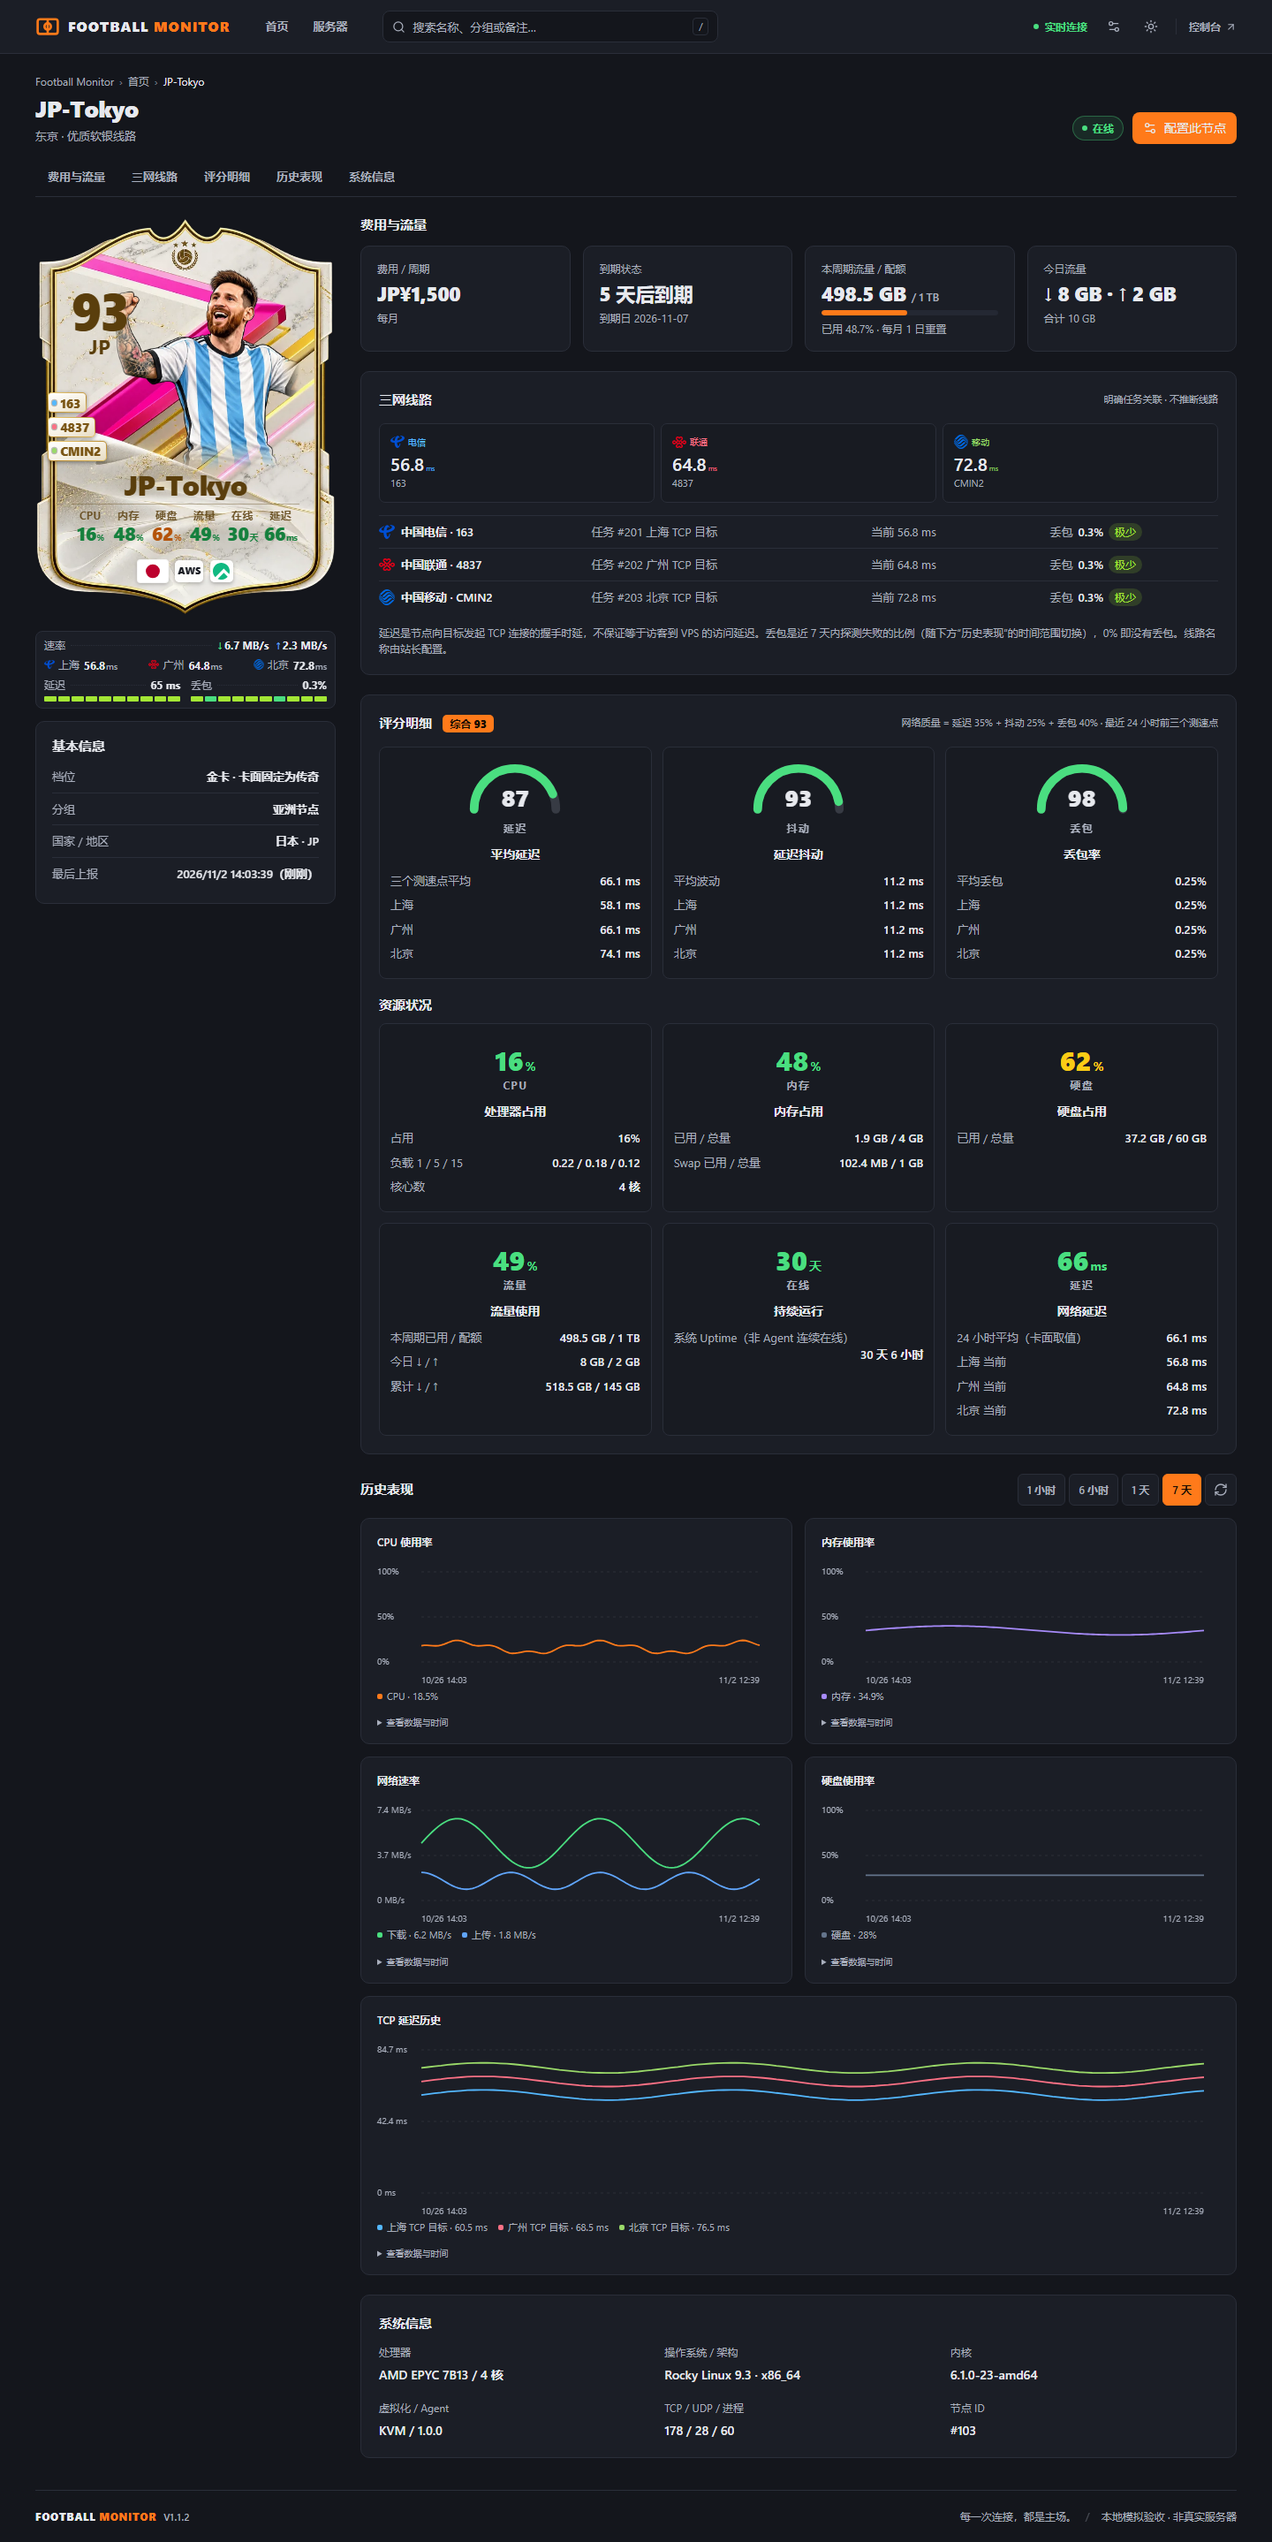
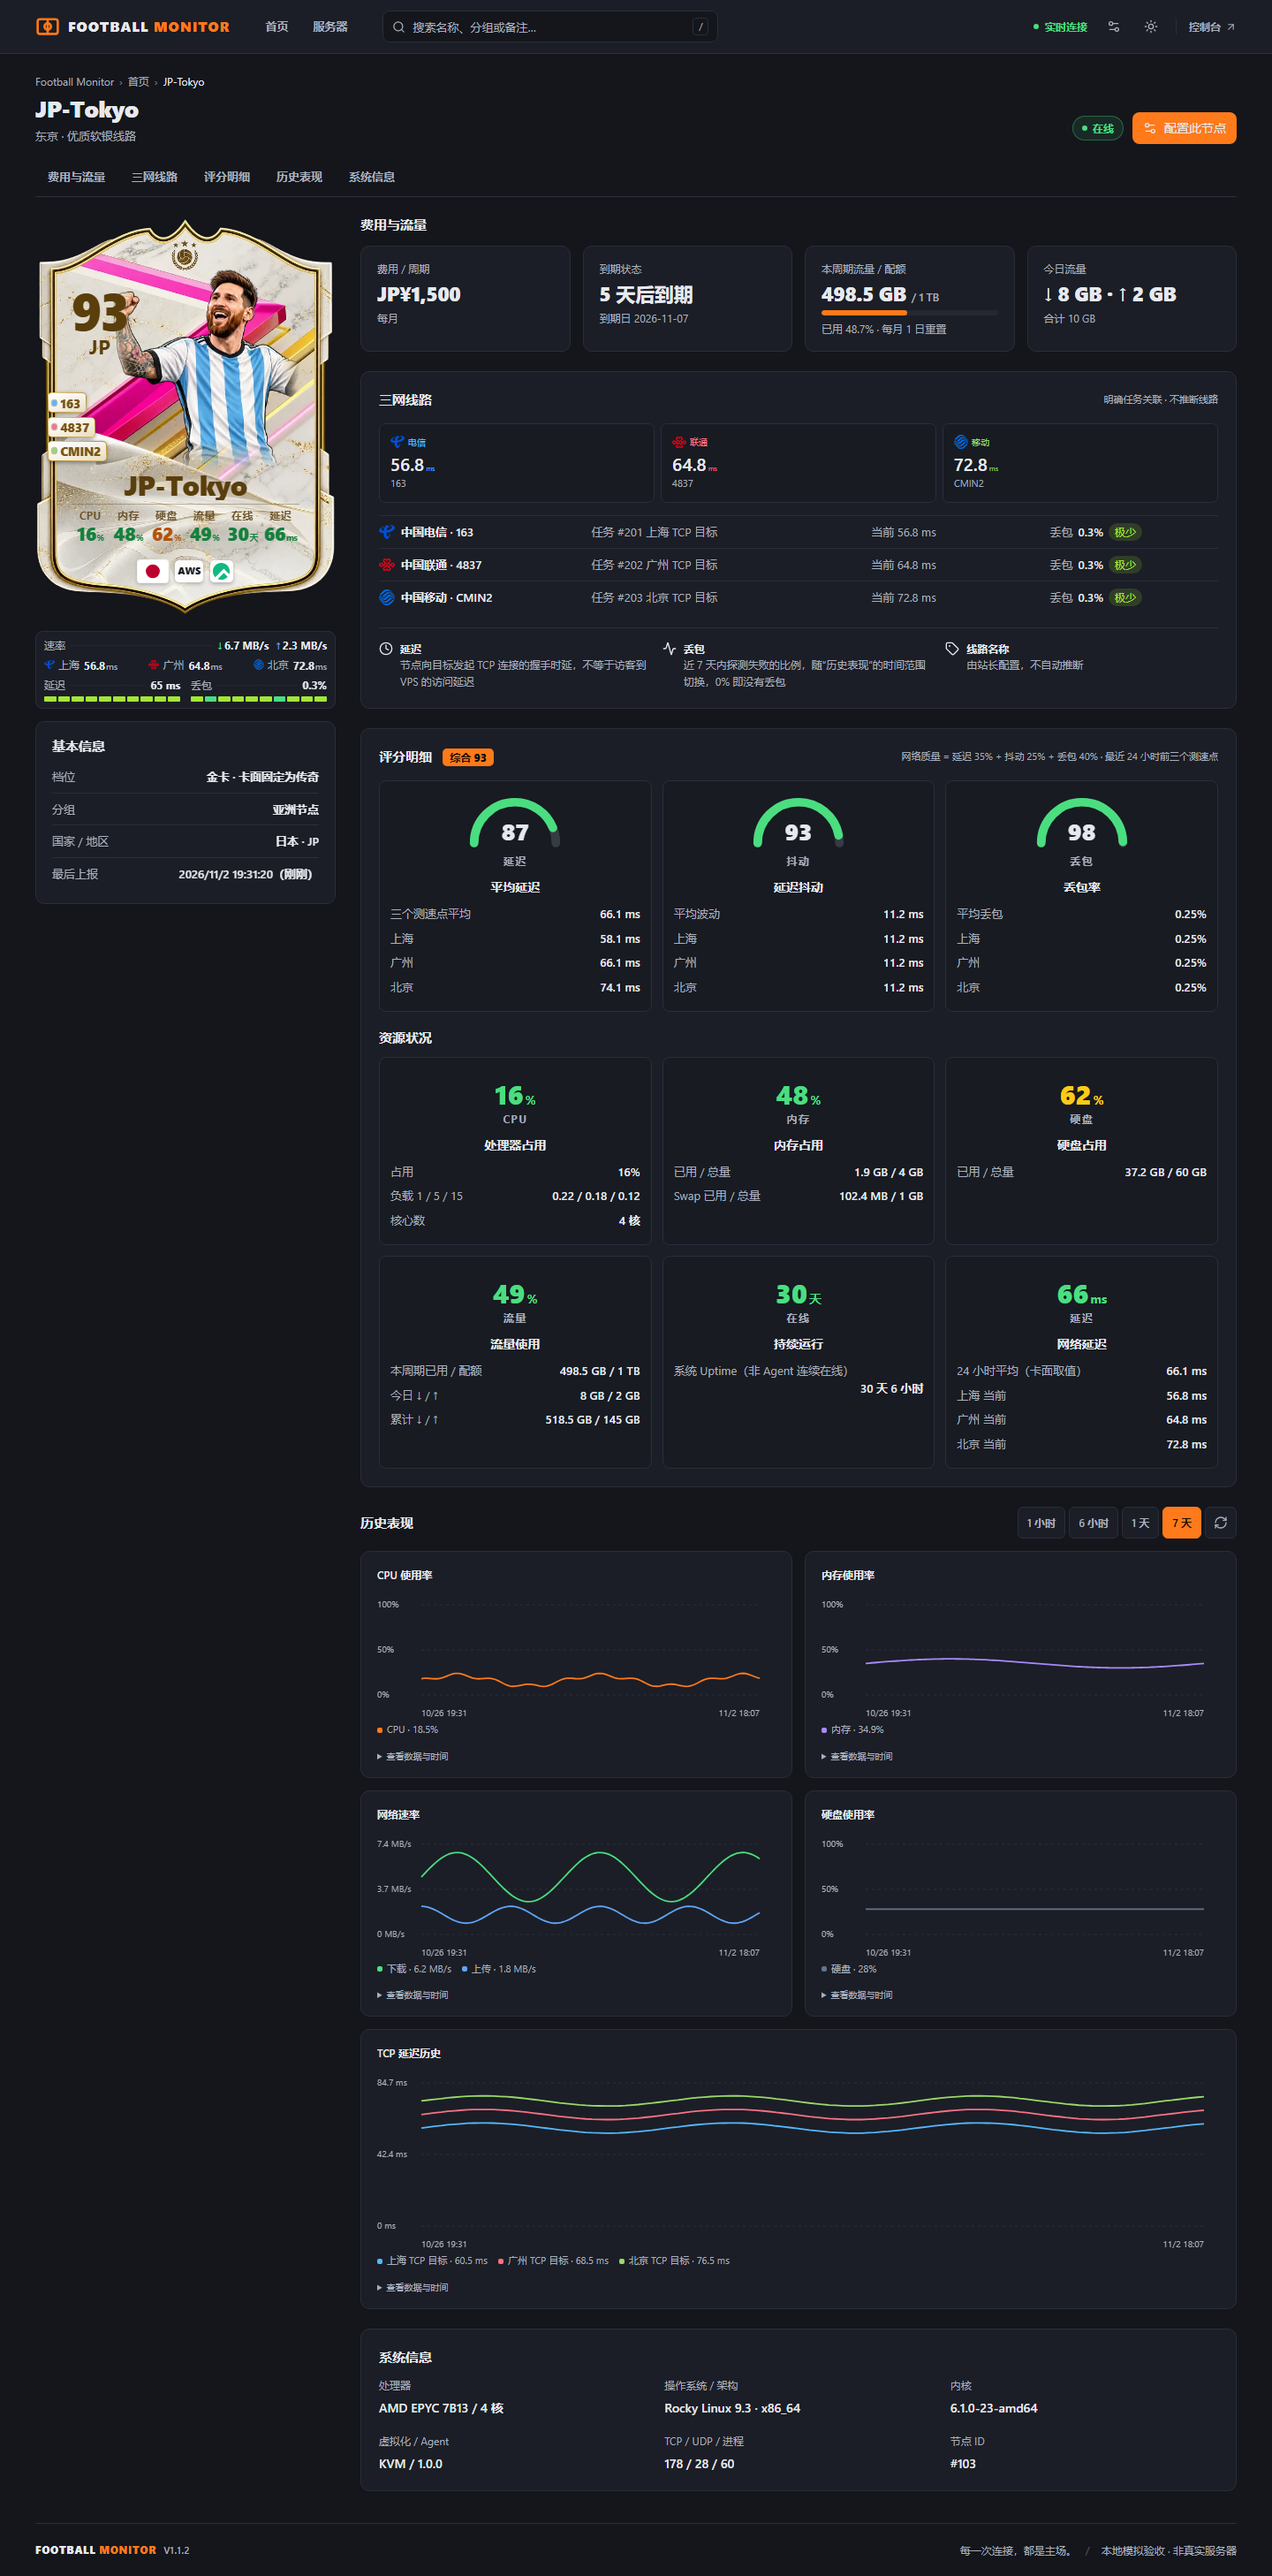
Tidy the carrier section's notes into chips and short notes
Probes outside the three carrier rows become graded chips, and the
explanation paragraph becomes three icon-led notes on latency, loss
and line names. Phones stack the notes.

diff --git a/src/views/NodeDetailView.vue b/src/views/NodeDetailView.vue
@@ -1,7 +1,7 @@
 <script setup lang="ts">
 import { computed, onBeforeUnmount, ref, watch } from 'vue'
 import { RouterLink, useRoute } from 'vue-router'
-import { RefreshCw, Settings2 } from '@lucide/vue'
+import { Activity, Clock, RefreshCw, Settings2, Tag } from '@lucide/vue'
 import { useMonitorStore } from '../stores/monitor'
 import {
   bytes,
@@ -326,16 +326,39 @@ const pct = (loss: number) => `${Number(loss.toFixed(1))}%`
               >
             </li>
           </ul>
-          <p>
-            延迟是节点向目标发起 TCP 连接的握手时延，不保证等于访客到 VPS 的访问延迟。丢包是近
-            {{ windowLabel(hours) }}内探测失败的比例（随下方“历史表现”的时间范围切换），0%
-            即没有丢包。线路名称由站长配置。
-          </p>
-          <p v-if="otherLoss.length">
-            其他探测任务：<span v-for="o in otherLoss" :key="o.id" class="carrier-other-loss"
-              >{{ o.name }} 丢包 {{ pct(o.loss) }}（{{ lossGrade(o.loss) }}）</span
-            >
-          </p>
+          <div v-if="otherLoss.length" class="carrier-others">
+            <h3>其他探测任务</h3>
+            <ul>
+              <li
+                v-for="o in otherLoss"
+                :key="o.id"
+                class="carrier-other-loss"
+                :style="{ '--loss': lossColor(o.loss) }"
+                :title="`近 ${windowLabel(hours)}内探测失败的比例`"
+              >
+                <span>{{ o.name }}</span> <b>{{ pct(o.loss) }}</b
+                ><em>{{ lossGrade(o.loss) }}</em>
+              </li>
+            </ul>
+          </div>
+          <ul class="carrier-notes">
+            <li>
+              <Clock :size="16" aria-hidden="true" /><span
+                ><strong>延迟</strong>节点向目标发起 TCP 连接的握手时延，不等于访客到 VPS 的访问延迟</span
+              >
+            </li>
+            <li>
+              <Activity :size="16" aria-hidden="true" /><span
+                ><strong>丢包</strong>近
+                {{ windowLabel(hours) }}内探测失败的比例，随“历史表现”的时间范围切换，0% 即没有丢包</span
+              >
+            </li>
+            <li>
+              <Tag :size="16" aria-hidden="true" /><span
+                ><strong>线路名称</strong>由站长配置，不自动推断</span
+              >
+            </li>
+          </ul>
         </section>
         <section v-if="score" id="score" class="detail-section detail-score panel" aria-label="评分明细">
           <ScoreBreakdown

diff --git a/src/style.css b/src/style.css
@@ -1511,11 +1511,6 @@ svg {
 .detail-carriers .carrier-state {
   font-size: 11px;
 }
-.detail-carriers p {
-  font-size: 12px;
-  color: var(--muted);
-  margin-top: 13px;
-}
 .carrier-tasks {
   list-style: none;
   margin: 14px 0 0;
@@ -1558,8 +1553,80 @@ svg {
   color: var(--loss);
   background: color-mix(in srgb, var(--loss) 16%, transparent);
 }
-.carrier-other-loss + .carrier-other-loss::before {
-  content: '；';
+/* Probes outside the three carrier rows: one chip each, graded like the rows above. */
+.carrier-others {
+  margin-top: 14px;
+}
+.carrier-others h3 {
+  margin: 0 0 8px;
+  color: var(--muted);
+  font-size: 12px;
+  font-weight: 500;
+}
+.carrier-others ul {
+  display: flex;
+  flex-wrap: wrap;
+  gap: 8px;
+  margin: 0;
+  padding: 0;
+  list-style: none;
+}
+.carrier-other-loss {
+  display: flex;
+  align-items: center;
+  gap: 8px;
+  min-width: 0;
+  padding: 6px 10px;
+  border: 1px solid var(--border);
+  border-radius: 8px;
+  font-size: 13px;
+  color: var(--muted);
+  background: color-mix(in srgb, var(--foreground) 3%, transparent);
+}
+.carrier-other-loss span {
+  overflow: hidden;
+  text-overflow: ellipsis;
+  white-space: nowrap;
+}
+.carrier-other-loss b {
+  color: var(--foreground);
+  font-weight: 600;
+}
+.carrier-other-loss em {
+  padding: 1px 7px;
+  border-radius: 999px;
+  font-size: 12px;
+  font-style: normal;
+  color: var(--loss);
+  background: color-mix(in srgb, var(--loss) 16%, transparent);
+}
+/* How to read the section: three short notes, each led by an icon and a bold term. */
+.carrier-notes {
+  display: grid;
+  grid-template-columns: repeat(3, minmax(0, 1fr));
+  gap: 12px;
+  margin: 16px 0 0;
+  padding: 14px 0 0;
+  list-style: none;
+  border-top: 1px solid var(--border);
+}
+.carrier-notes li {
+  display: flex;
+  gap: 8px;
+  min-width: 0;
+  color: var(--muted);
+  font-size: 12px;
+  line-height: 1.55;
+}
+.carrier-notes svg {
+  flex: none;
+  margin-top: 1px;
+  color: var(--foreground);
+}
+.carrier-notes strong {
+  display: block;
+  color: var(--foreground);
+  font-weight: 600;
 }
 .rules-table-wrap {
   margin: 14px 0;
@@ -1684,6 +1751,10 @@ svg {
   }
 }
 @media (max-width: 639px) {
+  .carrier-notes {
+    grid-template-columns: minmax(0, 1fr);
+    gap: 10px;
+  }
   .overview[data-boards='2'] {
     grid-template-columns: minmax(0, 1fr);
   }

diff --git a/tests/detail.test.ts b/tests/detail.test.ts
@@ -243,6 +243,30 @@ describe('node detail page', () => {
     expect(panel.text()).toContain('1.5%')
   })
 
+  it('shows unmapped probes as graded chips and explains the section in three short notes', async () => {
+    const { wrapper } = await mountDetail((store) => {
+      vi.spyOn(store.history, 'get').mockResolvedValue({
+        ...history(),
+        probes: { '11': '上海电信 TCP', '12': '广东电信-V6', '13': '广东移动-V6' },
+        loss: { '11': 1.5, '12': 9.4, '13': 0.6 },
+      })
+    })
+    const chips = wrapper.findAll('.carrier-others li')
+    expect(chips.map((c) => c.find('span').text())).toEqual(['广东电信-V6', '广东移动-V6'])
+    expect(chips.map((c) => c.find('b').text())).toEqual(['9.4%', '0.6%'])
+    expect(chips.map((c) => c.find('em').text())).toEqual(['偏高', '极少'])
+    expect(chips[0]!.attributes('style')).toContain('--loss')
+    const notes = wrapper.findAll('.carrier-notes li')
+    expect(notes.map((n) => n.find('strong').text())).toEqual(['延迟', '丢包', '线路名称'])
+    expect(notes[1]!.text()).toContain('近 6 小时内探测失败的比例')
+  })
+
+  it('leaves out the other-probe chips when every probe has a carrier row', async () => {
+    const { wrapper } = await mountDetail()
+    expect(wrapper.find('.carrier-others').exists()).toBe(false)
+    expect(wrapper.findAll('.carrier-notes li')).toHaveLength(3)
+  })
+
   it('breaks the network score into three meters and keeps the resource readings', async () => {
     const { wrapper, get } = await mountDetail()
     expect(get).toHaveBeenCalledWith(103, 24, 'ping', false, 3)

diff --git a/docs/manual.md b/docs/manual.md
@@ -148,6 +148,8 @@ npm run package:check  # 独立 gzip/tar/manifest/资源/限制校验
 
 这些数值是 **VPS 向配置目标建立 TCP 连接的握手时间**，不是 ICMP，也不保证是访客访问 VPS 的时延。
 
+详情页“三网线路”底部：没有关联到三网的其他探测任务以小块列出（名称、丢包率与极少 / 偏高等分级，颜色同上方三行）；下面三条带图标的短说明分别解释延迟、丢包（随“历史表现”的时间范围切换）与线路名称（由站长配置）。手机上三条说明上下排列。
+
 ## 可选图片上传服务
 
 需要你自己的 Cloudflare 账户、R2 专用图片桶、可公开读取图片的 HTTPS 域名、Access 应用和允许上传的站长身份。完整步骤见 [上传服务配置与安全说明](docs/upload-service.md)。
